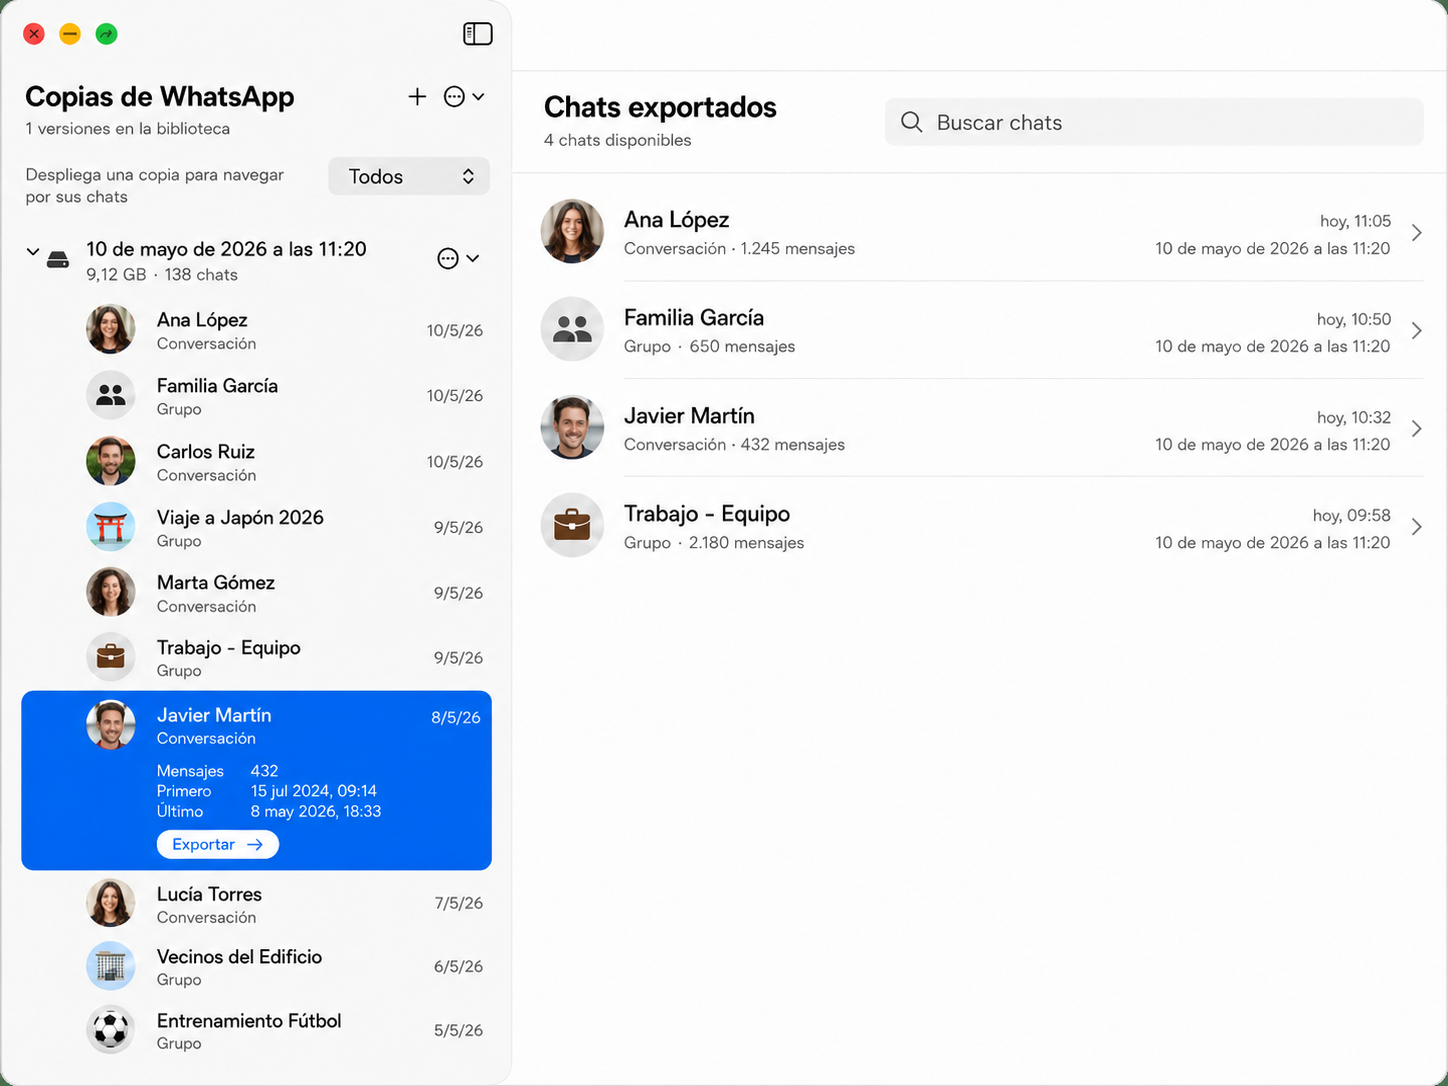
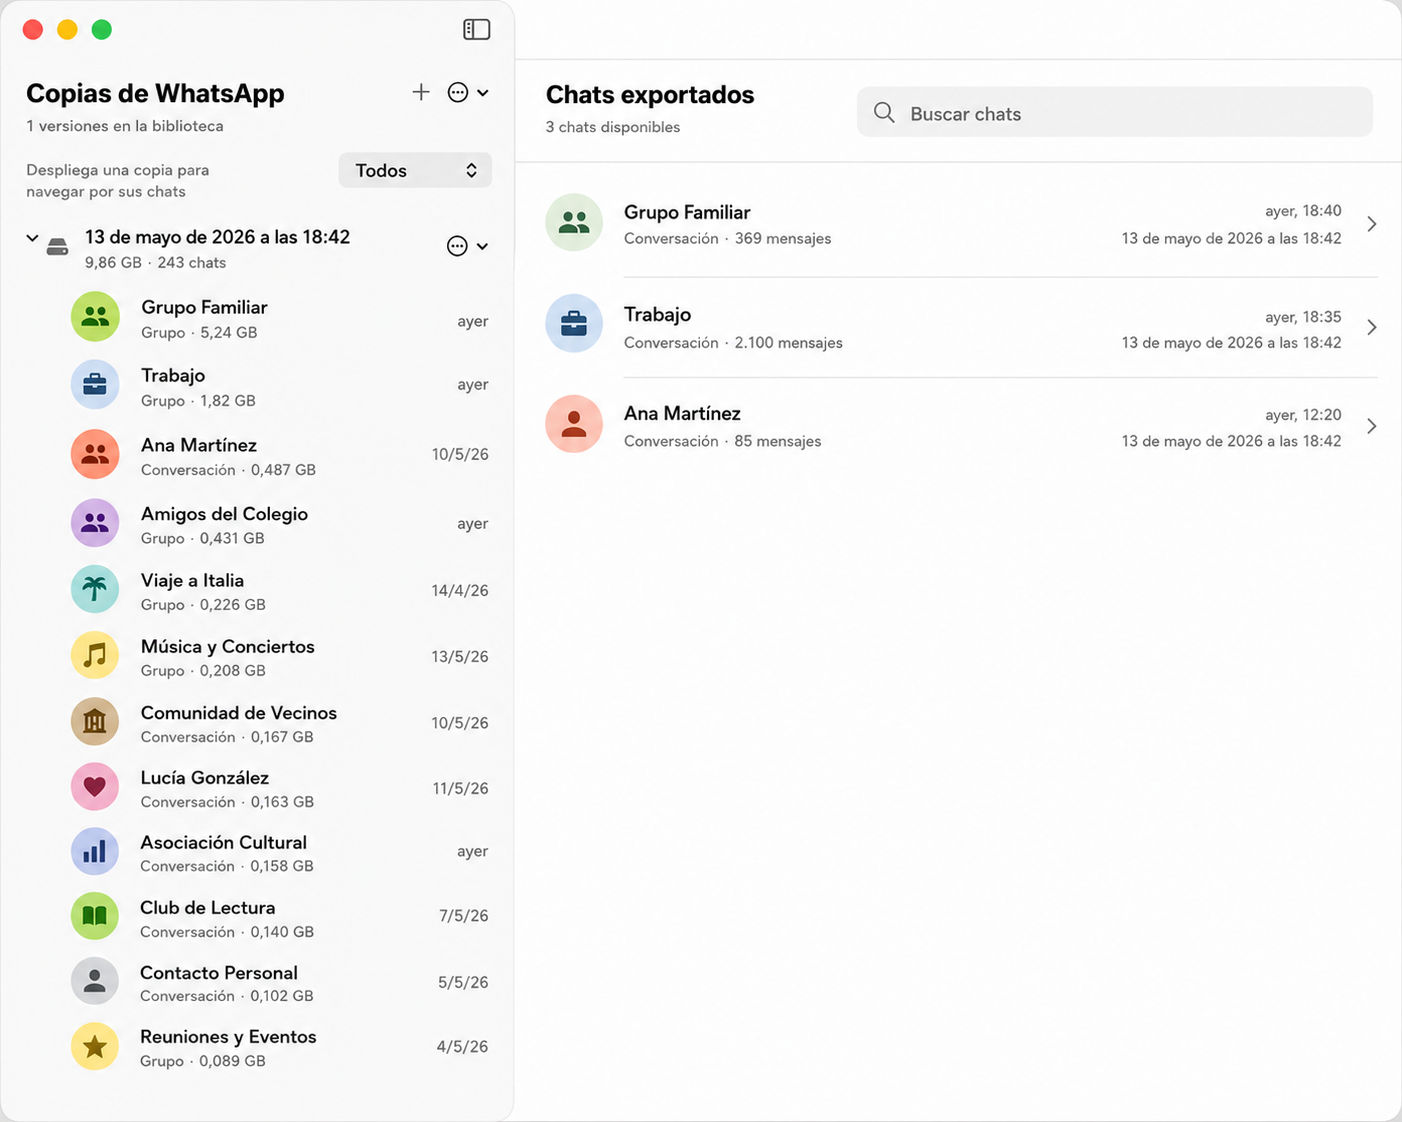
Cambio imagen

diff --git a/Sources/FreeMyChats/Views/ChatSidebarView.swift b/Sources/FreeMyChats/Views/ChatSidebarView.swift
@@ -275,9 +275,18 @@ private struct ChatSidebarRow: View {
                     ChatAvatar(photoURL: photoURL, name: chat.name)
 
                     VStack(alignment: .leading, spacing: 3) {
-                        Text(chat.name)
-                            .fontWeight(.medium)
-                            .lineLimit(1)
+                        HStack(alignment: .firstTextBaseline, spacing: 8) {
+                            Text(chat.name)
+                                .fontWeight(.medium)
+                                .lineLimit(1)
+
+                            Spacer(minLength: 4)
+
+                            Text(sizeDescription)
+                                .font(.caption)
+                                .foregroundStyle(.secondary)
+                                .lineLimit(1)
+                        }
 
                         HStack(spacing: 4) {
                             Text(summary)
@@ -417,7 +426,6 @@ private struct ChatSidebarRow: View {
         if chat.chatType == .group { parts.append("Grupo") }
         if chat.isArchived { parts.append("Archivado") }
         if parts.isEmpty { parts.append("Conversación") }
-        parts.append(sizeDescription)
         return parts.joined(separator: " · ")
     }
 
